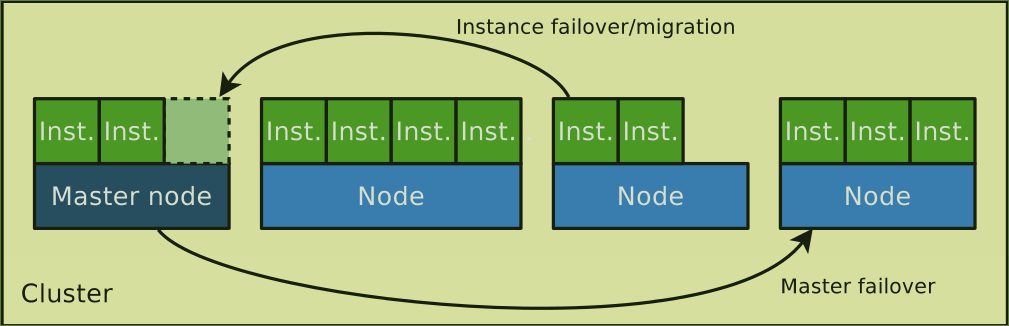
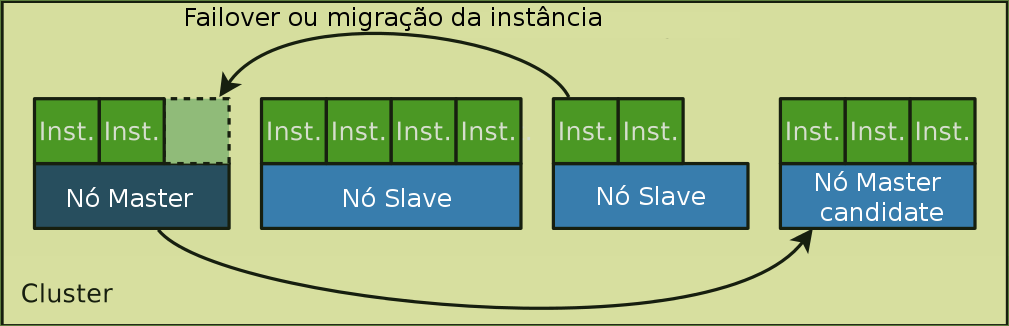
Correcao erro ortografico e imagens

diff --git a/monografia/capitulos/capitulo5.tex b/monografia/capitulos/capitulo5.tex
@@ -395,7 +395,7 @@ As principais funcionalidades do \textit{Ganeti} são \cite{ganeti}:
 O \textit{Heartbeat} é um subprojeto do \textit{Linux-HA} \cite{linuxha}, que desenvolve soluções de alta disponibilidade.
 Esse subprojeto é uma aplicação que envia pacotes \textit{keepalive \ac{UDP}}, através da rede, para outras aplicações \textit{Heartbeat}. 
 Esses pacotes possuem como objetivo verificar se uma aplicação está ativa.
-Destaca-se que esse \textit{software} pode ser utilizando para alta disponibilidade em ambientes de virtualização \cite{reis2009}.
+Destaca-se que esse \textit{software} pode ser utilizado para alta disponibilidade em ambientes de virtualização \cite{reis2009}.
 
 Na Figura \ref{fig:heartbeat} tem-se o \textit{Heartbeat} executando em dois servidores sobre as interfaces de rede dedicadas (\textit{ethX}).
 Neste caso, se o nó secundário deixar de receber os sinais do nó primário, este irá tornar-se o nó primário, e iniciará o processo de 
